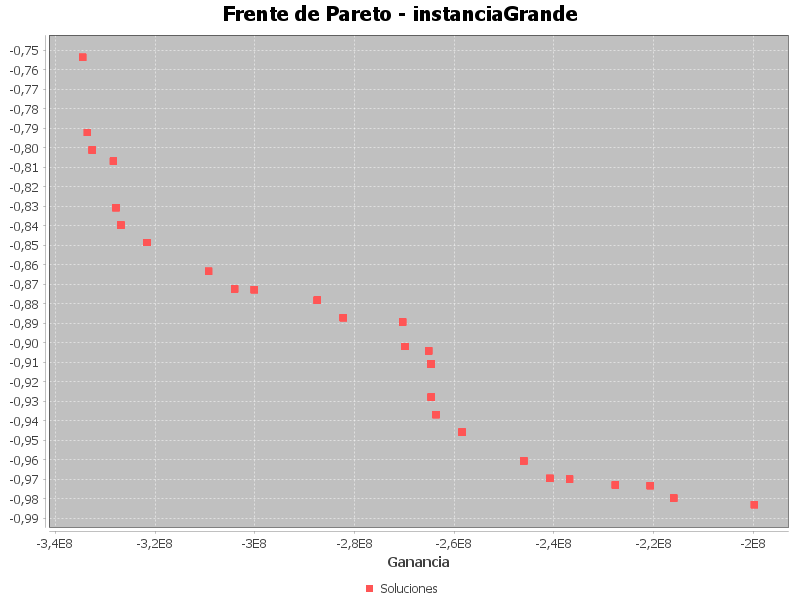
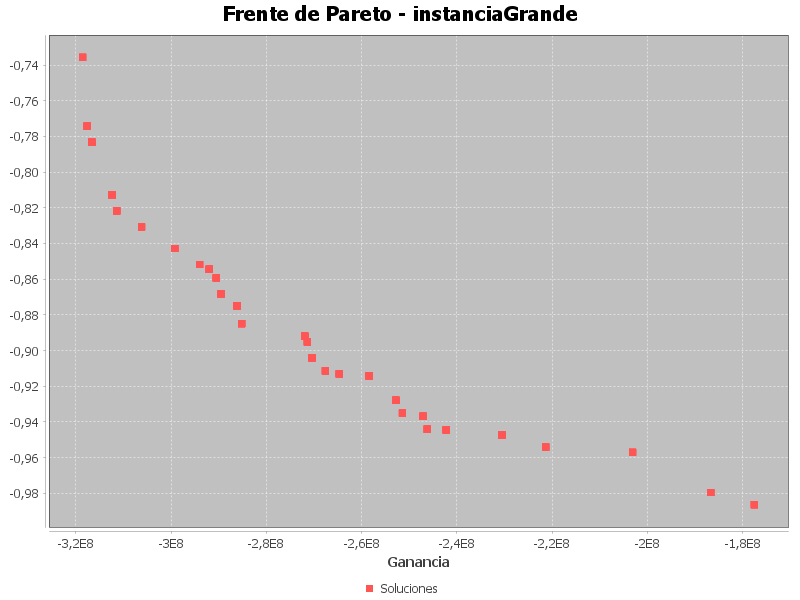
friedman

diff --git a/src/main/java/rotacionCultivos/ParetoEstimate.java b/src/main/java/rotacionCultivos/ParetoEstimate.java
@@ -1,8 +1,8 @@
 package rotacionCultivos;
 
+import org.apache.commons.math3.distribution.ChiSquaredDistribution;
 import org.apache.commons.math3.stat.descriptive.DescriptiveStatistics;
 import org.apache.commons.math3.stat.inference.KolmogorovSmirnovTest;
-import org.apache.commons.math3.stat.inference.MannWhitneyUTest;  
 import org.uma.jmetal.algorithm.Algorithm;
 import org.uma.jmetal.operator.crossover.CrossoverOperator;
 import org.uma.jmetal.operator.mutation.MutationOperator;
@@ -10,16 +10,14 @@ import org.uma.jmetal.solution.Solution;
 import org.uma.jmetal.solution.integersolution.IntegerSolution;
 import org.uma.jmetal.operator.crossover.impl.IntegerSBXCrossover;
 import org.uma.jmetal.util.evaluator.impl.SequentialSolutionListEvaluator;
-
 import rotacionCultivos.Main.AgriculturalData;
-
 import org.uma.jmetal.algorithm.multiobjective.nsgaii.NSGAIIBuilder;
 
 import java.util.ArrayList;
+import java.util.Arrays;
 import java.util.List;
 
 public class ParetoEstimate {
-
     public static void main(String[] args) {
         List<String> instancias = new ArrayList<>();
         instancias.add("instanciaChica.xml");
@@ -27,42 +25,53 @@ public class ParetoEstimate {
         instancias.add("instanciaGrande.xml");  
 
         List<List<IntegerSolution>> solucionesPorInstancia = new ArrayList<>();
-        List<String> nombresInstancias = List.of("instanciaChica", "instanciaMediana", "instanciaGrande", "instanciaVariada");
+        List<String> nombresInstancias = List.of("instanciaChica", "instanciaMediana", "instanciaGrande");
+
+        // Store results for each instance and each execution
+        List<List<List<Double>>> gananciasPorInstancia = new ArrayList<>();
+        List<List<List<Double>>> diversidadesPorInstancia = new ArrayList<>();
+        
+        // Initialize lists for each instance
+        for (int i = 0; i < instancias.size(); i++) {
+            gananciasPorInstancia.add(new ArrayList<>());
+            diversidadesPorInstancia.add(new ArrayList<>());
+        }
 
         for (String archivoInstancia : instancias) {
+            int instanceIndex = instancias.indexOf(archivoInstancia);
             
             String directorioInstancias = "src/main/resources/instancias/";
             String xmlFilePath = directorioInstancias + archivoInstancia;
             AgriculturalData data = Main.readDataFromXML(xmlFilePath);
 
-            // Crear la instancia del problema
-            AgriculturalOptimizationProblem problem = new AgriculturalOptimizationProblem(data.cantParcelas,
-                    data.cantFilas, data.cantSemestres, data.cantCultivos, data.areaParcelas,
-                    data.rendimientoCultivoChico, data.rendimientoCultivoMediano, data.rendimientoCultivoGrande,
-                    data.precioCultivo, data.costoMantCultivo, data.temporadaCultivo);
+            AgriculturalOptimizationProblem problem = new AgriculturalOptimizationProblem(
+                data.cantParcelas, data.cantFilas, data.cantSemestres, data.cantCultivos, 
+                data.areaParcelas, data.rendimientoCultivoChico, data.rendimientoCultivoMediano, 
+                data.rendimientoCultivoGrande, data.precioCultivo, data.costoMantCultivo, 
+                data.temporadaCultivo
+            );
             
             List<IntegerSolution> solucionesDeInstancia = new ArrayList<>();
             List<Double> ganancias = new ArrayList<>();
-            List<Double> diversidades= new ArrayList<>();
+            List<Double> diversidades = new ArrayList<>();
 
-            for (int i = 0; i<30; i++) {
-                // Medir tiempo total del algoritmo evolutivo NSGA-II
-                long startNSGAII = System.nanoTime();
-
+            for (int i = 0; i < 30; i++) {
                 double crossoverProbability = 0.9;
                 double mutationProbability = 1.0 / problem.getNumberOfVariables();
                 double distributionIndex = 10.0;
 
-                CrossoverOperator<IntegerSolution> crossover = new IntegerSBXCrossover(crossoverProbability,
-                        distributionIndex);
-                MutationOperator<IntegerSolution> mutation = new SeasonalIntegerMutation(mutationProbability,
-                        data.cantParcelas, data.cantFilas, data.temporadaCultivo);
+                CrossoverOperator<IntegerSolution> crossover = new IntegerSBXCrossover(crossoverProbability, distributionIndex);
+                MutationOperator<IntegerSolution> mutation = new SeasonalIntegerMutation(
+                    mutationProbability, data.cantParcelas, data.cantFilas, data.temporadaCultivo
+                );
 
-                Algorithm<List<IntegerSolution>> algorithm = new NSGAIIBuilder<>(problem, crossover, mutation, 200 // Tamaño  de la población
-                ).setMaxEvaluations(50000).setSolutionListEvaluator(new SequentialSolutionListEvaluator<>()).build();
+                Algorithm<List<IntegerSolution>> algorithm = new NSGAIIBuilder<>(
+                    problem, crossover, mutation, 200
+                ).setMaxEvaluations(50000)
+                 .setSolutionListEvaluator(new SequentialSolutionListEvaluator<>())
+                 .build();
 
                 algorithm.run();
-                long endNSGAII = System.nanoTime();
 
                 List<IntegerSolution> population = algorithm.getResult();
                 solucionesDeInstancia.addAll(population);
@@ -72,10 +81,12 @@ public class ParetoEstimate {
                     diversidades.add(solution.getObjective(1));
                 }
             }
+            
             solucionesPorInstancia.add(obtenerNoDominadas(solucionesDeInstancia));
-            calcularEstadisticas(ganancias, nombresInstancias.get(instancias.indexOf(archivoInstancia)), "Ganancia");
-            calcularEstadisticas(diversidades, nombresInstancias.get(instancias.indexOf(archivoInstancia)), "Diversidad");
+            calcularEstadisticas(ganancias, nombresInstancias.get(instanceIndex), "Ganancia");
+            calcularEstadisticas(diversidades, nombresInstancias.get(instanceIndex), "Diversidad");
         }
+
         ScatterPlot.guardarFrentePareto(solucionesPorInstancia, nombresInstancias);
     }
 
@@ -93,26 +104,116 @@ public class ParetoEstimate {
         System.out.println("Fitness Promedio: " + promedioFitness);
         System.out.println("Desviación Estándar: " + desviacionEstandar);
 
-        // Comparación de distribuciones con Kolmogorov-Smirnov Test
+        // Kolmogorov-Smirnov Test 
         if (fitnesses.size() > 1) {
-            double[] distribucion1 = fitnesses.subList(0, fitnesses.size() / 2).stream().mapToDouble(Double::doubleValue).toArray();
-            double[] distribucion2 = fitnesses.subList(fitnesses.size() / 2, fitnesses.size()).stream().mapToDouble(Double::doubleValue).toArray();
+            double[] distribucion1 = fitnesses.subList(0, fitnesses.size() / 2)
+                                            .stream()
+                                            .mapToDouble(Double::doubleValue)
+                                            .toArray();
+            double[] distribucion2 = fitnesses.subList(fitnesses.size() / 2, fitnesses.size())
+                                            .stream()
+                                            .mapToDouble(Double::doubleValue)
+                                            .toArray();
 
             KolmogorovSmirnovTest ksTest = new KolmogorovSmirnovTest();
             double pValueKS = ksTest.kolmogorovSmirnovTest(distribucion1, distribucion2);
             System.out.println("p-value (Kolmogorov-Smirnov Test): " + pValueKS);
 
-            // Comparación con Mann-Whitney U-Test
-            MannWhitneyUTest mannWhitneyUTest = new MannWhitneyUTest();
-            double pValueMW = mannWhitneyUTest.mannWhitneyUTest(distribucion1, distribucion2);
-            System.out.println("p-value (Mann-Whitney U-Test): " + pValueMW);
+            // Perform Friedman Test
+            List<List<Double>> distribuciones = new ArrayList<>();
+            for (int i = 0; i < fitnesses.size(); i += fitnesses.size() / 3) {
+                distribuciones.add(fitnesses.subList(i, Math.min(i + fitnesses.size() / 3, fitnesses.size())));
+            }
+            realizarTestDeFriedman(distribuciones);
         }
         System.out.println();
     }
+
+    private static void realizarTestDeFriedman(List<List<Double>> distribuciones) {
+        int k = distribuciones.size();  // Number of treatments (instances)
+        int n = distribuciones.get(0).size();  // Number of blocks (runs)
+        
+        // Create a matrix where rows are blocks (runs) and columns are treatments (instances)
+        double[][] data = new double[n][k];
+        for (int i = 0; i < k; i++) {
+            List<Double> distribucion = distribuciones.get(i);
+            for (int j = 0; j < n; j++) {
+                data[j][i] = distribucion.get(j);
+            }
+        }
+        
+        // Calculate ranks within each block
+        double[][] ranks = new double[n][k];
+        for (int i = 0; i < n; i++) {
+            double[] blockValues = data[i];
+            
+            // Create array of indices and sort them based on values
+            Integer[] indices = new Integer[k];
+            for (int j = 0; j < k; j++) {
+                indices[j] = j;
+            }
+            
+            Arrays.sort(indices, (a, b) -> Double.compare(blockValues[a], blockValues[b]));
+            
+            int rank = 1;
+            int j = 0;
+            while (j < k) {
+                double currentValue = blockValues[indices[j]];
+                int tied = 1;
+                int start = j;
+                
+                while (j + 1 < k && blockValues[indices[j + 1]] == currentValue) {
+                    j++;
+                    tied++;
+                }
+                
+                double averageRank = rank + (tied - 1) / 2.0;
+                
+                for (int t = 0; t < tied; t++) {
+                    ranks[i][indices[start + t]] = averageRank;
+                }
+                
+                rank += tied;
+                j++;
+            }
+        }
+        
+        // Calculate column sums (R_j)
+        double[] columnSums = new double[k];
+        for (int j = 0; j < k; j++) {
+            for (int i = 0; i < n; i++) {
+                columnSums[j] += ranks[i][j];
+            }
+        }
+        
+        // Calculate Friedman statistic
+        double sumSquaredRanks = 0;
+        for (double columnSum : columnSums) {
+            sumSquaredRanks += columnSum * columnSum;
+        }
+        
+        double chiSquaredStatistic = (12.0 / (n * k * (k + 1))) * sumSquaredRanks - 3 * n * (k + 1);
+        
+        // Calculate p-value
+        ChiSquaredDistribution chiSquaredDistribution = new ChiSquaredDistribution(k - 1);
+        double pValue = 1 - chiSquaredDistribution.cumulativeProbability(chiSquaredStatistic);
+        
+        System.out.println("\nFriedman Test Results:");
+        System.out.println("Number of treatments (k): " + k);
+        System.out.println("Number of blocks (n): " + n);
+        System.out.println("Chi-squared statistic: " + chiSquaredStatistic);
+        System.out.println("Degrees of freedom: " + (k - 1));
+        System.out.println("p-value: " + pValue);
+        
+        System.out.println("\nAverage ranks por instancia:");
+        for (int j = 0; j < k; j++) {
+            System.out.printf("Instancia %d: %.2f%n", j + 1, columnSums[j] / n);
+        }
+    }
     
+        
     public static <S extends Solution<?>> List<S> obtenerNoDominadas(List<S> soluciones) {
         List<S> noDominadas = new ArrayList<>();
-
         for (S solucion1 : soluciones) {
             boolean esDominada = false;
             for (S solucion2 : soluciones) {
@@ -133,12 +234,12 @@ public class ParetoEstimate {
 
         for (int i = 0; i < solucion1.getNumberOfObjectives(); i++) {
             if (solucion1.getObjective(i) > solucion2.getObjective(i)) {
-                return false; // solucion1 no domina porque es peor en este objetivo
+                return false;
             } else if (solucion1.getObjective(i) < solucion2.getObjective(i)) {
                 mejorEnAlMenosUnObjetivo = true;
             }
         }
 
-        return mejorEnAlMenosUnObjetivo; // solucion1 domina solo si es mejor en al menos un objetivo
+        return mejorEnAlMenosUnObjetivo;
     }
 }
